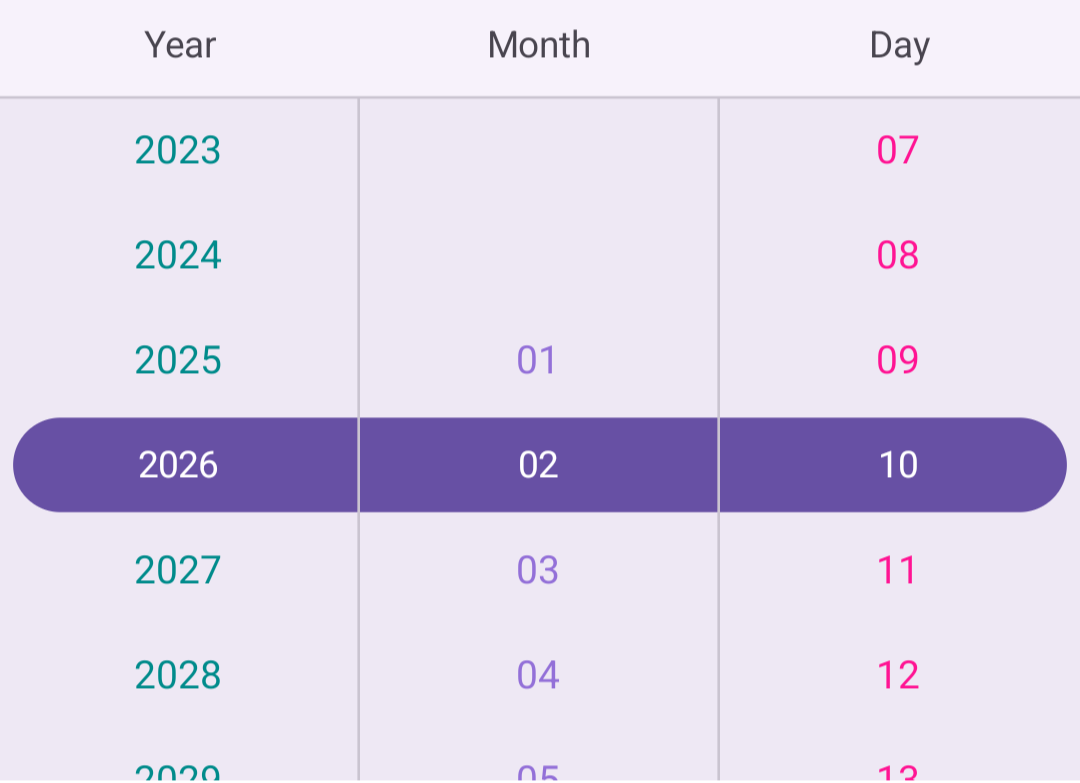
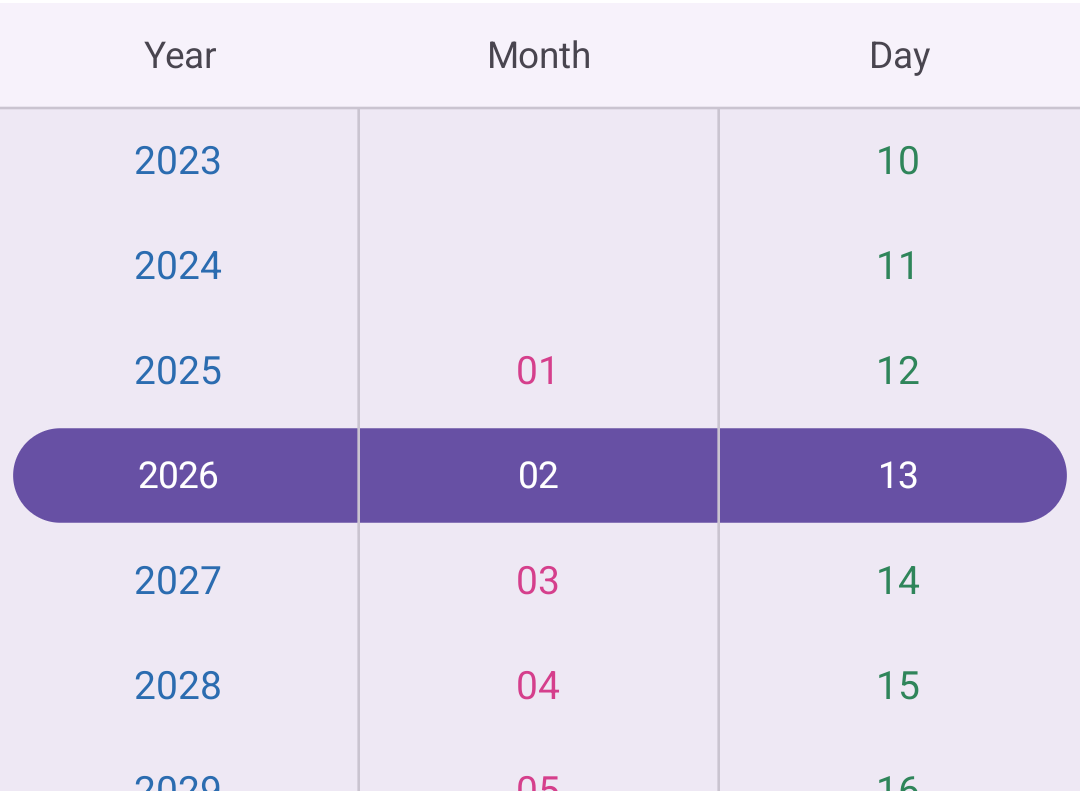
1008155 - Added images.

diff --git a/MAUI/DateTimePicker/customizations.md b/MAUI/DateTimePicker/customizations.md
@@ -683,7 +683,7 @@ Customize the day column text style of the `Date Time Picker` using The [DayColu
 SfDateTimePicker dateTimePicker = new SfDateTimePicker();
 dateTimePicker.DayColumnTextStyle = new PickerTextStyle()
 {
-    TextColor = Colors.DeepPink,
+    TextColor = Color.FromArgb("#2F855A"),
     FontSize = 15,
 };
 
@@ -703,7 +703,7 @@ Customize the month column text style of the `Date Time Picker` using The [Month
 
 <picker:SfDateTimePicker x:Name="datetimepicker" >
     <picker:SfDateTimePicker.MonthColumnTextStyle>
-        <picker:PickerTextStyle FontSize="15" TextColor="MediumPurple"/>
+        <picker:PickerTextStyle FontSize="15" TextColor="#D53F8C"/>
     </picker:SfDateTimePicker.MonthColumnTextStyle>
 </picker:SfDateTimePicker>
 
@@ -714,7 +714,7 @@ Customize the month column text style of the `Date Time Picker` using The [Month
 SfDateTimePicker dateTimePicker = new SfDateTimePicker();
 dateTimePicker.MonthColumnTextStyle = new PickerTextStyle()
 {
-    TextColor = Colors.MediumPurple,
+    TextColor = Color.FromArgb("#D53F8C"),
     FontSize = 15,
 };
 
@@ -734,7 +734,7 @@ Customize the year column text style of the `Date Time Picker` using The [YearCo
 
 <picker:SfDateTimePicker x:Name="datetimepicker" >
     <picker:SfDateTimePicker.YearColumnTextStyle>
-        <picker:PickerTextStyle FontSize="15" TextColor="DarkCyan"/>
+        <picker:PickerTextStyle FontSize="15" TextColor="#2B6CB0"/>
     </picker:SfDateTimePicker.YearColumnTextStyle>
 </picker:SfDateTimePicker>
 
@@ -745,78 +745,9 @@ Customize the year column text style of the `Date Time Picker` using The [YearCo
 SfDateTimePicker dateTimePicker = new SfDateTimePicker();
 dateTimePicker.YearColumnTextStyle = new PickerTextStyle()
 {
-    TextColor = Colors.DarkCyan,
+    TextColor = Color.FromArgb("#2B6CB0"),
     FontSize = 15,
 };
-
-this.Content = dateTimePicker;
-
-{% endhighlight %}
-
-{% endtabs %}
-
-### Customization of the day column width
-
-Customize the day column width of the `Date Time Picker` using the [DayColumnWidth](https://help.syncfusion.com/cr/maui/Syncfusion.Maui.Picker.PickerBase.html#Syncfusion_Maui_Picker_PickerBase_DayColumnWidth) property in the [SfDateTimePicker](https://help.syncfusion.com/cr/maui/Syncfusion.Maui.Picker.SfDateTimePicker.html).
-
-{% tabs %}
-
-{% highlight xaml tabtitle="XAML" %}
-
-<picker:SfDateTimePicker x:Name="datetimepicker" DayColumnWidth="150"/>
-
-{% endhighlight %}
-
-{% highlight c# tabtitle="C#" %}
-
-SfDateTimePicker dateTimePicker = new SfDateTimePicker();
-dateTimePicker.DayColumnWidth = 150;
-
-this.Content = dateTimePicker;
-
-{% endhighlight %}
-
-{% endtabs %}
-
-### Customization of the month column width
-
-Customize the month column width of the `Date Time Picker` using the [MonthColumnWidth](https://help.syncfusion.com/cr/maui/Syncfusion.Maui.Picker.PickerBase.html#Syncfusion_Maui_Picker_PickerBase_MonthColumnWidth) property in the [SfDateTimePicker](https://help.syncfusion.com/cr/maui/Syncfusion.Maui.Picker.SfDateTimePicker.html).
-
-{% tabs %}
-
-{% highlight xaml tabtitle="XAML" %}
-
-<picker:SfDateTimePicker x:Name="datetimepicker" MonthColumnWidth="150"/>
-
-{% endhighlight %}
-
-{% highlight c# tabtitle="C#" %}
-
-SfDateTimePicker dateTimePicker = new SfDateTimePicker();
-dateTimePicker.MonthColumnWidth = 150;
-
-this.Content = dateTimePicker;
-
-{% endhighlight %}
-
-{% endtabs %}
-
-### Customization of the year column width
-
-Customize the year column width of the `Date Time Picker` using the [YearColumnWidth](https://help.syncfusion.com/cr/maui/Syncfusion.Maui.Picker.PickerBase.html#Syncfusion_Maui_Picker_PickerBase_YearColumnWidth) property in the [SfDateTimePicker](https://help.syncfusion.com/cr/maui/Syncfusion.Maui.Picker.SfDateTimePicker.html).
-
-{% tabs %}
-
-{% highlight xaml tabtitle="XAML" %}
-
-<picker:SfDateTimePicker x:Name="datetimepicker" YearColumnWidth="150"/>
-
-{% endhighlight %}
-
-{% highlight c# tabtitle="C#" %}
-
-SfDateTimePicker dateTimePicker = new SfDateTimePicker();
-dateTimePicker.YearColumnWidth = 150;
 
 this.Content = dateTimePicker;
 
@@ -975,6 +906,77 @@ dateTimePicker.MilliSecondColumnTextStyle = new PickerTextStyle()
         FontSize = 15,
     }
 };
+
+this.Content = dateTimePicker;
+
+{% endhighlight %}
+
+{% endtabs %}
+
+![Custom column textstyle in .NET MAUI Date Time picker.](images/customizations/maui-date-time-picker-column-textstyle.png)
+
+### Customization of the day column width
+
+Customize the day column width of the `Date Time Picker` using the [DayColumnWidth](https://help.syncfusion.com/cr/maui/Syncfusion.Maui.Picker.PickerBase.html#Syncfusion_Maui_Picker_PickerBase_DayColumnWidth) property in the [SfDateTimePicker](https://help.syncfusion.com/cr/maui/Syncfusion.Maui.Picker.SfDateTimePicker.html).
+
+{% tabs %}
+
+{% highlight xaml tabtitle="XAML" %}
+
+<picker:SfDateTimePicker x:Name="datetimepicker" DayColumnWidth="150"/>
+
+{% endhighlight %}
+
+{% highlight c# tabtitle="C#" %}
+
+SfDateTimePicker dateTimePicker = new SfDateTimePicker();
+dateTimePicker.DayColumnWidth = 150;
+
+this.Content = dateTimePicker;
+
+{% endhighlight %}
+
+{% endtabs %}
+
+### Customization of the month column width
+
+Customize the month column width of the `Date Time Picker` using the [MonthColumnWidth](https://help.syncfusion.com/cr/maui/Syncfusion.Maui.Picker.PickerBase.html#Syncfusion_Maui_Picker_PickerBase_MonthColumnWidth) property in the [SfDateTimePicker](https://help.syncfusion.com/cr/maui/Syncfusion.Maui.Picker.SfDateTimePicker.html).
+
+{% tabs %}
+
+{% highlight xaml tabtitle="XAML" %}
+
+<picker:SfDateTimePicker x:Name="datetimepicker" MonthColumnWidth="150"/>
+
+{% endhighlight %}
+
+{% highlight c# tabtitle="C#" %}
+
+SfDateTimePicker dateTimePicker = new SfDateTimePicker();
+dateTimePicker.MonthColumnWidth = 150;
+
+this.Content = dateTimePicker;
+
+{% endhighlight %}
+
+{% endtabs %}
+
+### Customization of the year column width
+
+Customize the year column width of the `Date Time Picker` using the [YearColumnWidth](https://help.syncfusion.com/cr/maui/Syncfusion.Maui.Picker.PickerBase.html#Syncfusion_Maui_Picker_PickerBase_YearColumnWidth) property in the [SfDateTimePicker](https://help.syncfusion.com/cr/maui/Syncfusion.Maui.Picker.SfDateTimePicker.html).
+
+{% tabs %}
+
+{% highlight xaml tabtitle="XAML" %}
+
+<picker:SfDateTimePicker x:Name="datetimepicker" YearColumnWidth="150"/>
+
+{% endhighlight %}
+
+{% highlight c# tabtitle="C#" %}
+
+SfDateTimePicker dateTimePicker = new SfDateTimePicker();
+dateTimePicker.YearColumnWidth = 150;
 
 this.Content = dateTimePicker;
 

diff --git a/MAUI/DatePicker/customizations.md b/MAUI/DatePicker/customizations.md
@@ -726,7 +726,7 @@ N>
 
 <picker:SfDatePicker x:Name="datepicker" >
     <picker:SfDatePicker.DayColumnTextStyle>
-        <picker:PickerTextStyle FontSize="15" TextColor="DeepPink"/>
+        <picker:PickerTextStyle FontSize="15" TextColor="#2F855A"/>
     </picker:SfDatePicker.DayColumnTextStyle>
 </picker:SfDatePicker>
 
@@ -737,7 +737,7 @@ N>
 SfDatePicker datePicker = new SfDatePicker();
 datePicker.DayColumnTextStyle = new PickerTextStyle()
 {
-    TextColor = Colors.DeepPink,
+    TextColor = Color.FromArgb("#2F855A"),
     FontSize = 15,
 };
 
@@ -757,7 +757,7 @@ Customize the month column text style of the Date Picker using The [MonthColumnT
 
 <picker:SfDatePicker x:Name="datepicker" >
     <picker:SfDatePicker.MonthColumnTextStyle>
-        <picker:PickerTextStyle FontSize="15" TextColor="MediumPurple"/>
+        <picker:PickerTextStyle FontSize="15" TextColor="#D53F8C"/>
     </picker:SfDatePicker.MonthColumnTextStyle>
 </picker:SfDatePicker>
 
@@ -768,7 +768,7 @@ Customize the month column text style of the Date Picker using The [MonthColumnT
 SfDatePicker datePicker = new SfDatePicker();
 datePicker.MonthColumnTextStyle = new PickerTextStyle()
 {
-    TextColor = Colors.MediumPurple,
+    TextColor = Color.FromArgb("#D53F8C"),
     FontSize = 15,
 };
 
@@ -788,7 +788,7 @@ Customize the year column text style of the Date Picker using The [YearColumnTex
 
 <picker:SfDatePicker x:Name="datepicker" >
     <picker:SfDatePicker.YearColumnTextStyle>
-        <picker:PickerTextStyle FontSize="15" TextColor="DarkCyan"/>
+        <picker:PickerTextStyle FontSize="15" TextColor="#2B6CB0"/>
     </picker:SfDatePicker.YearColumnTextStyle>
 </picker:SfDatePicker>
 
@@ -799,7 +799,7 @@ Customize the year column text style of the Date Picker using The [YearColumnTex
 SfDatePicker datePicker = new SfDatePicker();
 datePicker.YearColumnTextStyle = new PickerTextStyle()
 {
-    TextColor = Colors.DarkCyan,
+    TextColor = Color.FromArgb("#2B6CB0"),
     FontSize = 15,
 };
 
@@ -809,7 +809,7 @@ this.Content = datePicker;
 
 {% endtabs %}
 
-![Custom column textstyle in .NET MAUI Date picker.](images/customizations/maui-date-picker-column-textstyle.png){Width=300, height=300}
+![Custom column textstyle in .NET MAUI Date picker.](images/customizations/maui-date-picker-column-textstyle.png)
 
 ### Customization of the day column width
 

diff --git a/MAUI/TimePicker/customizations.md b/MAUI/TimePicker/customizations.md
@@ -729,7 +729,7 @@ N>
 
 <picker:SfTimePicker x:Name="timePicker" >
     <picker:SfTimePicker.HourColumnTextStyle>
-        <picker:PickerTextStyle FontSize="15" TextColor="DeepPink"/>
+        <picker:PickerTextStyle FontSize="15" TextColor="#2F855A"/>
     </picker:SfTimePicker.HourColumnTextStyle>
 </picker:SfTimePicker>
 
@@ -740,7 +740,7 @@ N>
 SfTimePicker timePicker = new SfTimePicker();
 timePicker.HourColumnTextStyle = new PickerTextStyle()
 {
-    TextColor = Colors.DeepPink,
+    TextColor = Color.FromArgb("#2F855A"),
     FontSize = 15,
 };
 
@@ -760,7 +760,7 @@ Customize the minute column text style of the `Time Picker` using The [MinuteCol
 
 <picker:SfTimePicker x:Name="timePicker" >
     <picker:SfTimePicker.MinuteColumnTextStyle>
-        <picker:PickerTextStyle FontSize="15" TextColor="MediumPurple"/>
+        <picker:PickerTextStyle FontSize="15" TextColor="#D53F8C"/>
     </picker:SfTimePicker.MinuteColumnTextStyle>
 </picker:SfTimePicker>
 
@@ -771,7 +771,7 @@ Customize the minute column text style of the `Time Picker` using The [MinuteCol
 SfTimePicker timePicker = new SfTimePicker();
 timePicker.MinuteColumnTextStyle = new PickerTextStyle()
 {
-    TextColor = Colors.MediumPurple,
+    TextColor = Color.FromArgb("#D53F8C"),
     FontSize = 15,
 };
 
@@ -791,7 +791,7 @@ Customize the second column text style of the `Time Picker` using The [SecondCol
 
 <picker:SfTimePicker x:Name="timePicker" >
     <picker:SfTimePicker.SecondColumnTextStyle>
-        <picker:PickerTextStyle FontSize="15" TextColor="DarkCyan"/>
+        <picker:PickerTextStyle FontSize="15" TextColor="#2B6CB0"/>
     </picker:SfTimePicker.SecondColumnTextStyle>
 </picker:SfTimePicker>
 
@@ -802,7 +802,7 @@ Customize the second column text style of the `Time Picker` using The [SecondCol
 SfTimePicker timePicker = new SfTimePicker();
 timePicker.SecondColumnTextStyle = new PickerTextStyle()
 {
-    TextColor = Colors.DarkCyan,
+    TextColor = Color.FromArgb("#2B6CB0"),
     FontSize = 15,
 };
 
@@ -873,6 +873,8 @@ this.Content = timePicker;
 {% endhighlight %}
 
 {% endtabs %}
+
+![Custom column textstyle in .NET MAUI Time picker.](images/customizations/maui-time-picker-column-textstyle.png)
 
 ### Customization of the hour column width
 
